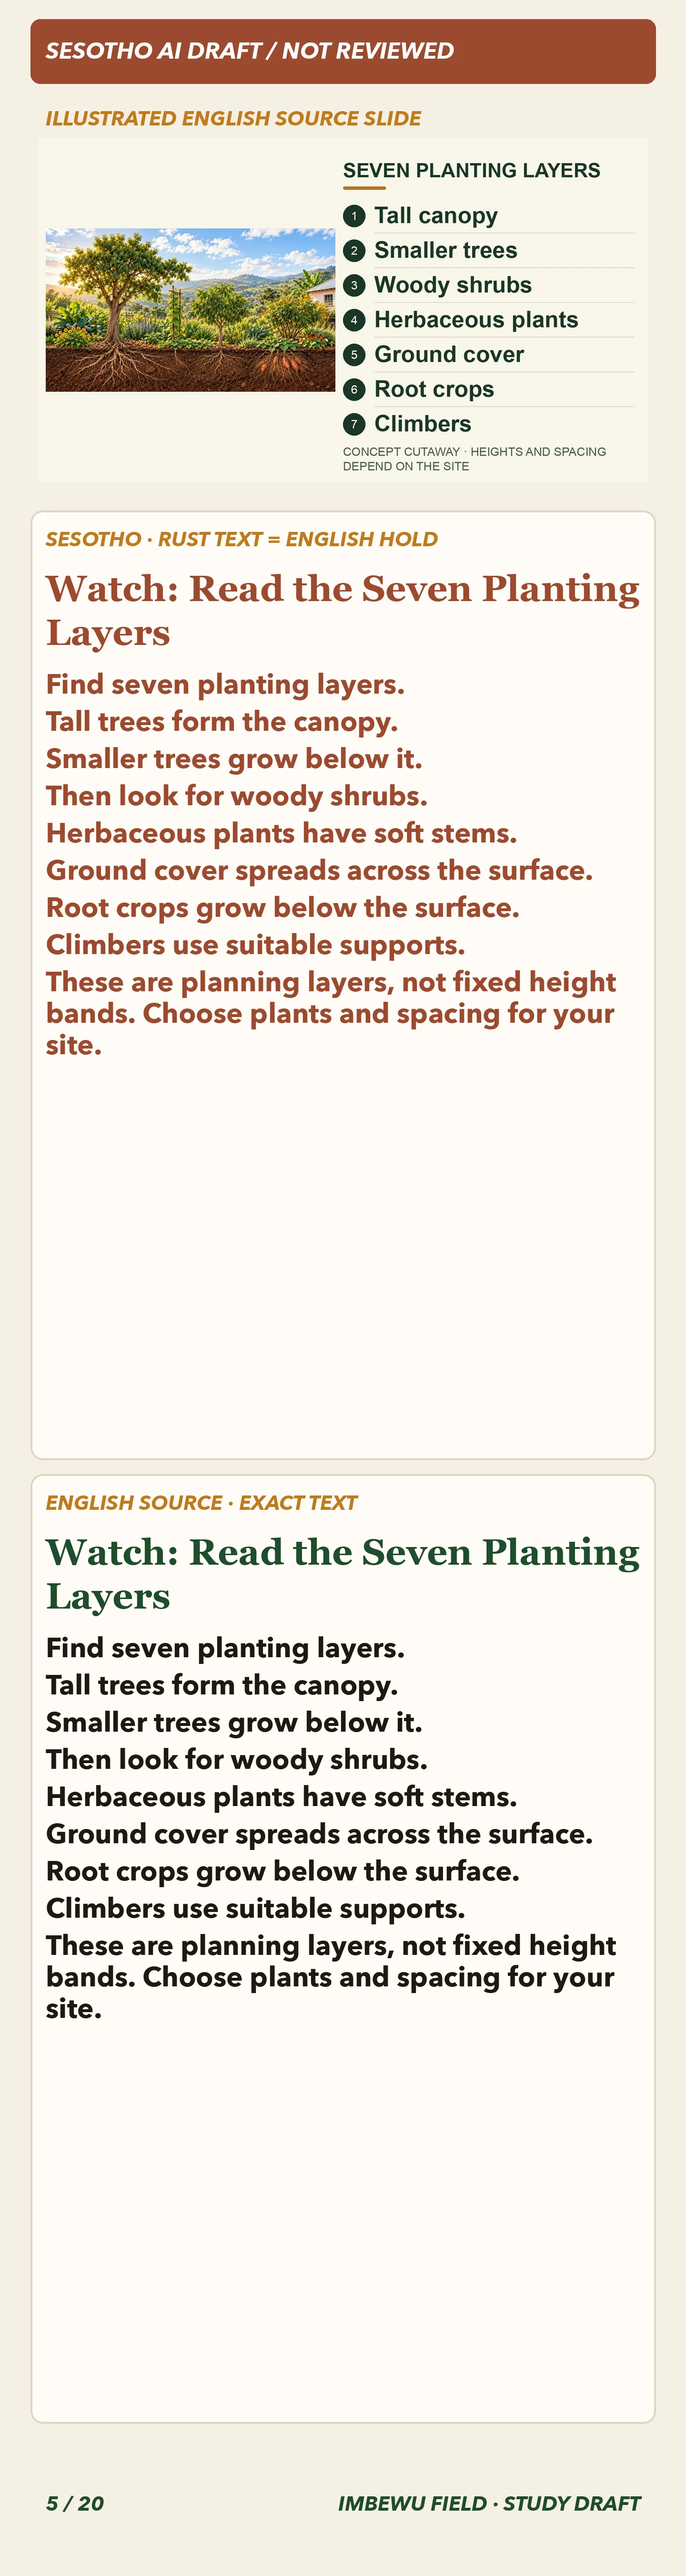
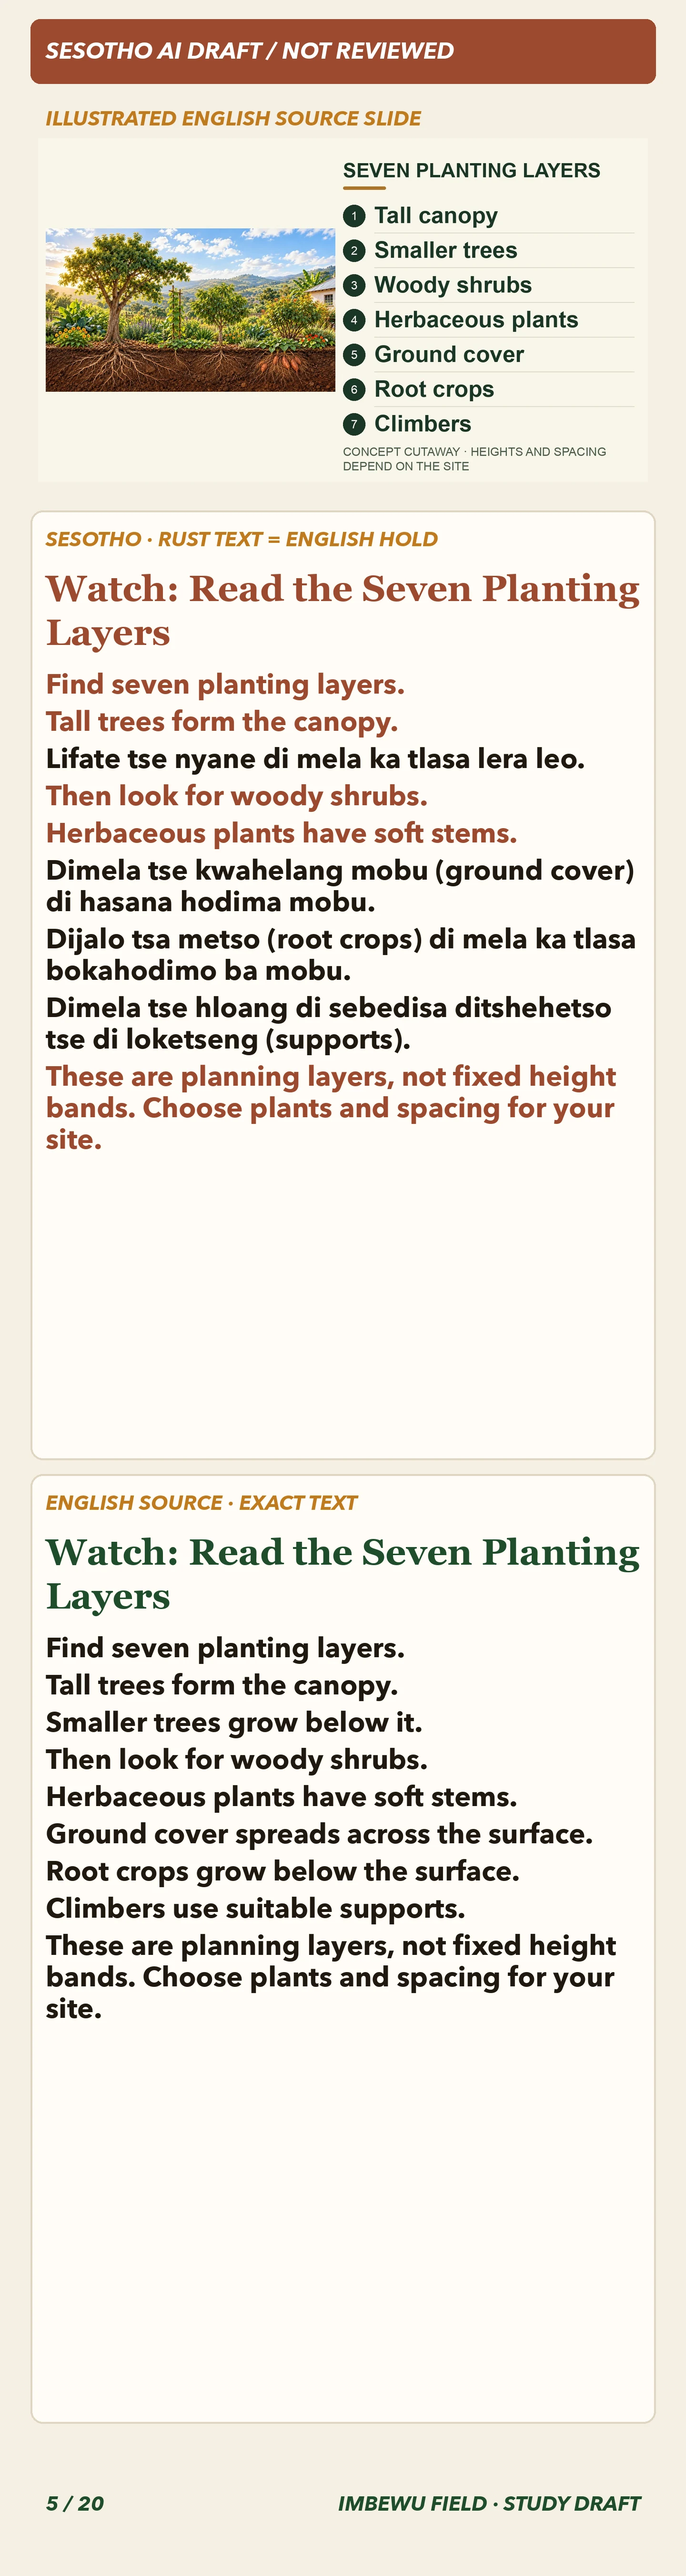
Add source-paired regional Food Forest layer drafts

Changed region(s): [[0.0625, 0.28, 0.9062, 0.4667]]

diff --git a/lib/course-asset-sizes.ts b/lib/course-asset-sizes.ts
@@ -634,7 +634,7 @@ export const COURSE_ASSET_SIZES: Readonly<Record<string, number>> = Object.freez
   '/course-decks/food-forest/st/slide-02.webp': 220196,
   '/course-decks/food-forest/st/slide-03.webp': 226742,
   '/course-decks/food-forest/st/slide-04.webp': 253488,
-  '/course-decks/food-forest/st/slide-05.webp': 406198,
+  '/course-decks/food-forest/st/slide-05.webp': 426744,
   '/course-decks/food-forest/st/slide-06.webp': 343362,
   '/course-decks/food-forest/st/slide-07.webp': 298174,
   '/course-decks/food-forest/st/slide-08.webp': 653946,
@@ -654,7 +654,7 @@ export const COURSE_ASSET_SIZES: Readonly<Record<string, number>> = Object.freez
   '/course-decks/food-forest/ts/slide-02.webp': 217798,
   '/course-decks/food-forest/ts/slide-03.webp': 220636,
   '/course-decks/food-forest/ts/slide-04.webp': 260322,
-  '/course-decks/food-forest/ts/slide-05.webp': 407032,
+  '/course-decks/food-forest/ts/slide-05.webp': 426662,
   '/course-decks/food-forest/ts/slide-06.webp': 344152,
   '/course-decks/food-forest/ts/slide-07.webp': 298870,
   '/course-decks/food-forest/ts/slide-08.webp': 659646,
@@ -674,7 +674,7 @@ export const COURSE_ASSET_SIZES: Readonly<Record<string, number>> = Object.freez
   '/course-decks/food-forest/ve/slide-02.webp': 214188,
   '/course-decks/food-forest/ve/slide-03.webp': 212186,
   '/course-decks/food-forest/ve/slide-04.webp': 249152,
-  '/course-decks/food-forest/ve/slide-05.webp': 443944,
+  '/course-decks/food-forest/ve/slide-05.webp': 417294,
   '/course-decks/food-forest/ve/slide-06.webp': 379332,
   '/course-decks/food-forest/ve/slide-07.webp': 321608,
   '/course-decks/food-forest/ve/slide-08.webp': 660890,

diff --git a/docs/study-translation-reviews/FOOD-FOREST-LAYER-DESCRIPTIONS-2026-10-01.md b/docs/study-translation-reviews/FOOD-FOREST-LAYER-DESCRIPTIONS-2026-10-01.md
@@ -1,0 +1,15 @@
+# Food Forest slide 5 — regional layer descriptions
+
+Status: **unreviewed machine drafts for facilitator review**. The silent Sesotho, Tshivenda and Xitsonga frames retain the illustrated English source at the top and every exact English sentence below the regional panel. Xitsonga is a provisional written starting point for the Shangani-speaking cohort; comprehension has not been tested.
+
+The English slide names seven *planning layers*, not fixed height bands. No species, height, spacing or planting date was added. The final site-specific caveat and all uncertain category descriptions remain exact English. This release adds only the following slide 5 body fields:
+
+| Language | Draft body indexes (zero-based) | English source concepts |
+| --- | --- | --- |
+| Sesotho | 2, 5, 6, 7 | Smaller trees; ground cover; root crops; climbers and suitable supports |
+| Tshivenda | 1, 2, 5 | Tall-tree canopy; smaller trees; ground cover |
+| Xitsonga | 1, 2, 5, 7 | Tall-tree canopy; smaller trees; ground cover; climbers and suitable supports |
+
+The exact English and target text are in `docs/narration/food-forest.{st,ve,ts}.paired-draft.json`. Each changed field carries an unreviewed provenance marker. The unchanged `english-hold` fields in the same slide include the layer count/category introduction, woody shrubs, herbaceous plants, and the site-dependent caveat. Root-crop phrasing remains English in Tshivenda and Xitsonga.
+
+Two lower-cost agents independently checked the candidate set against the exact English and rejected wording that could confuse a planting *stage* with a conceptual layer, turn woody shrubs into wooden poles, weaken soft stems, or obscure root crops below the soil surface. This is a machine cross-check, **not** fluent-language or local farming approval. A first-language reviewer should check the technical terms and the seven-layer teaching model before it is used as stand-alone instruction. English is available beside every draft in the learner frame.
